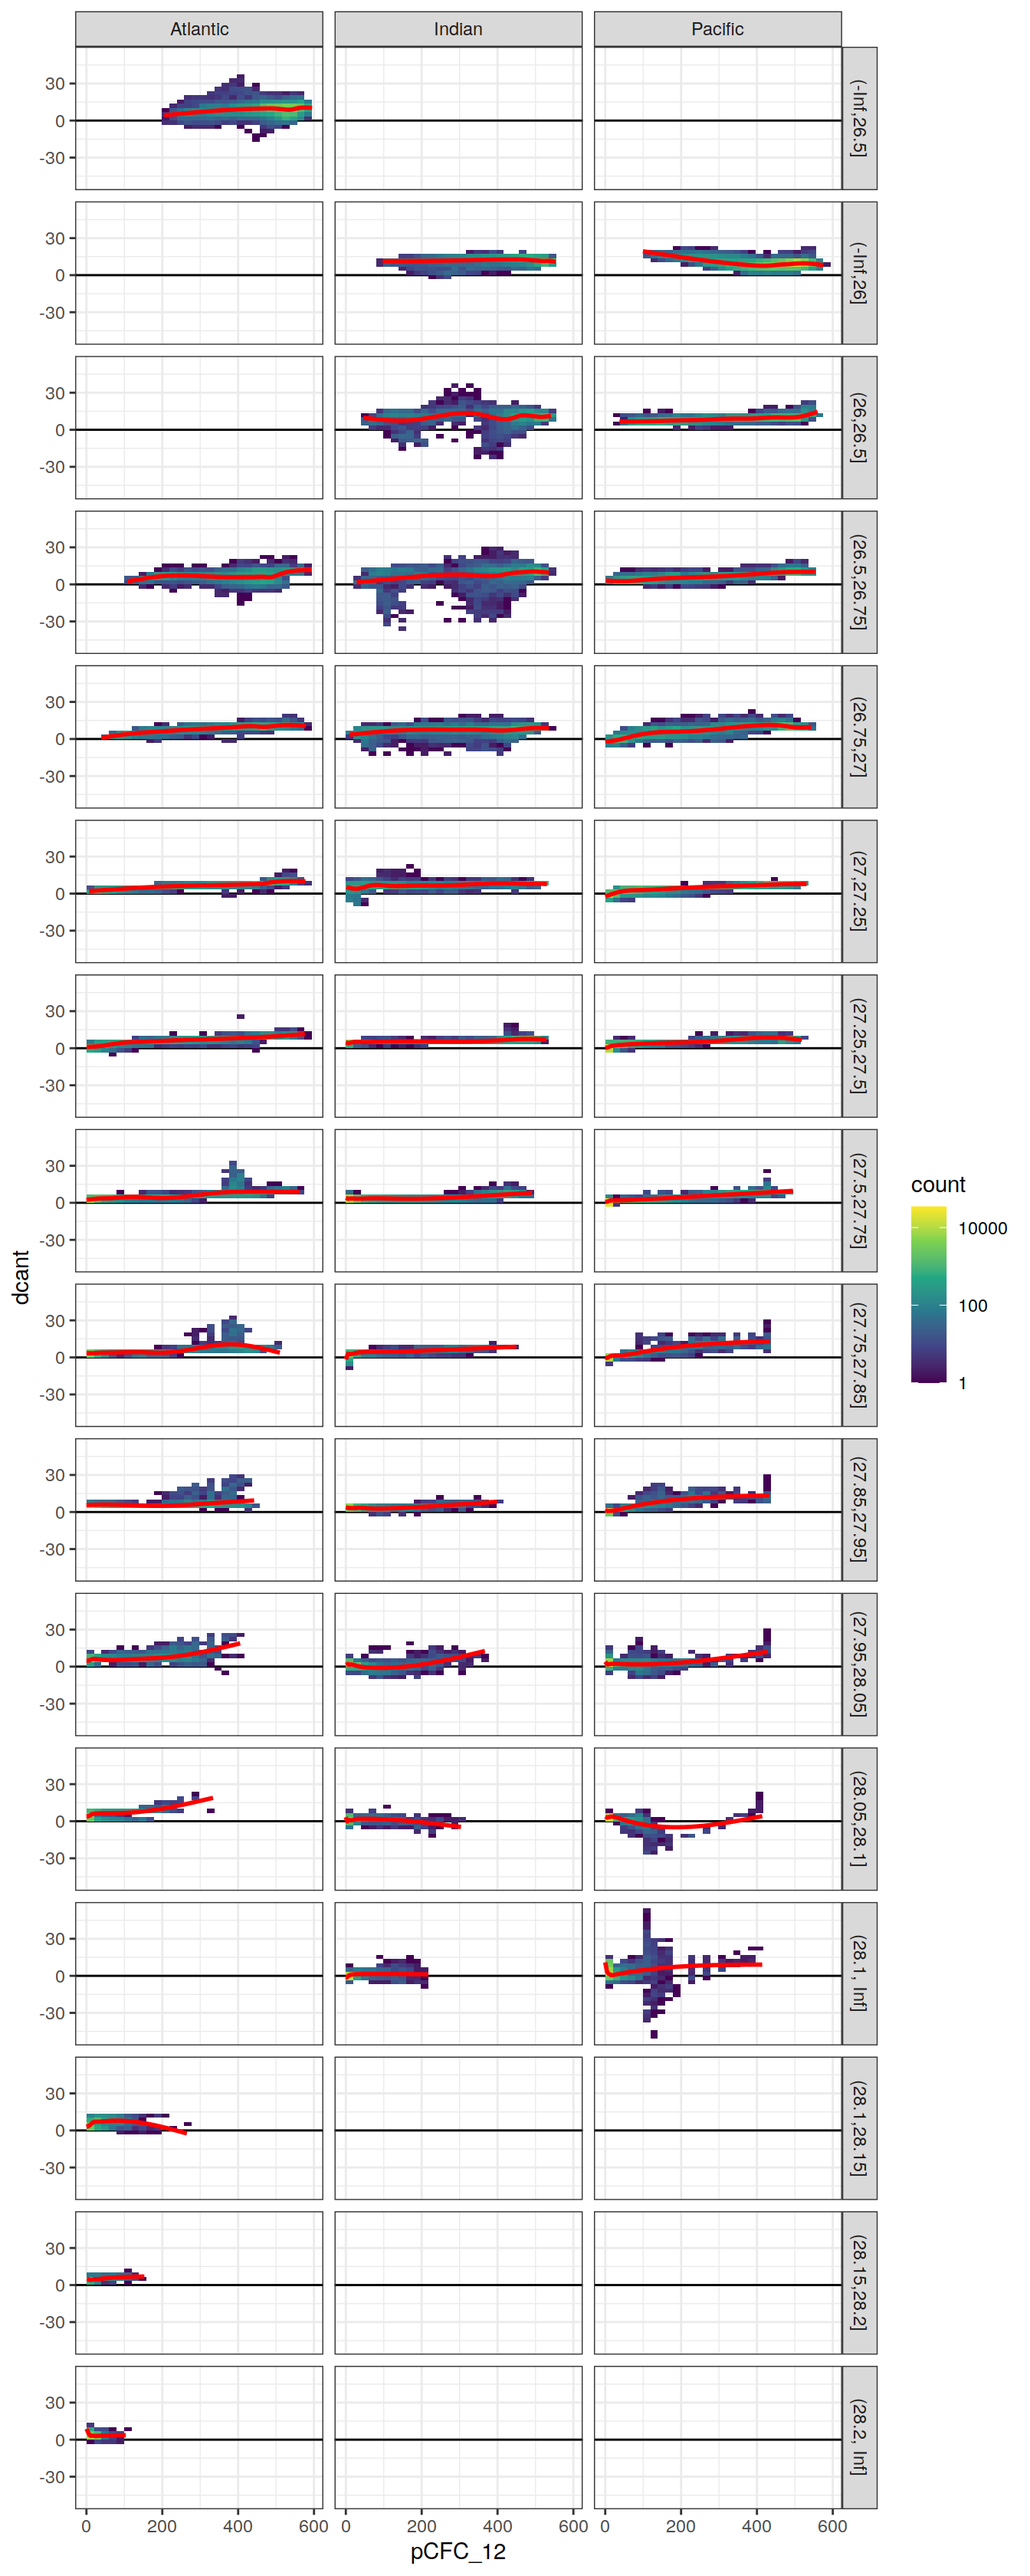
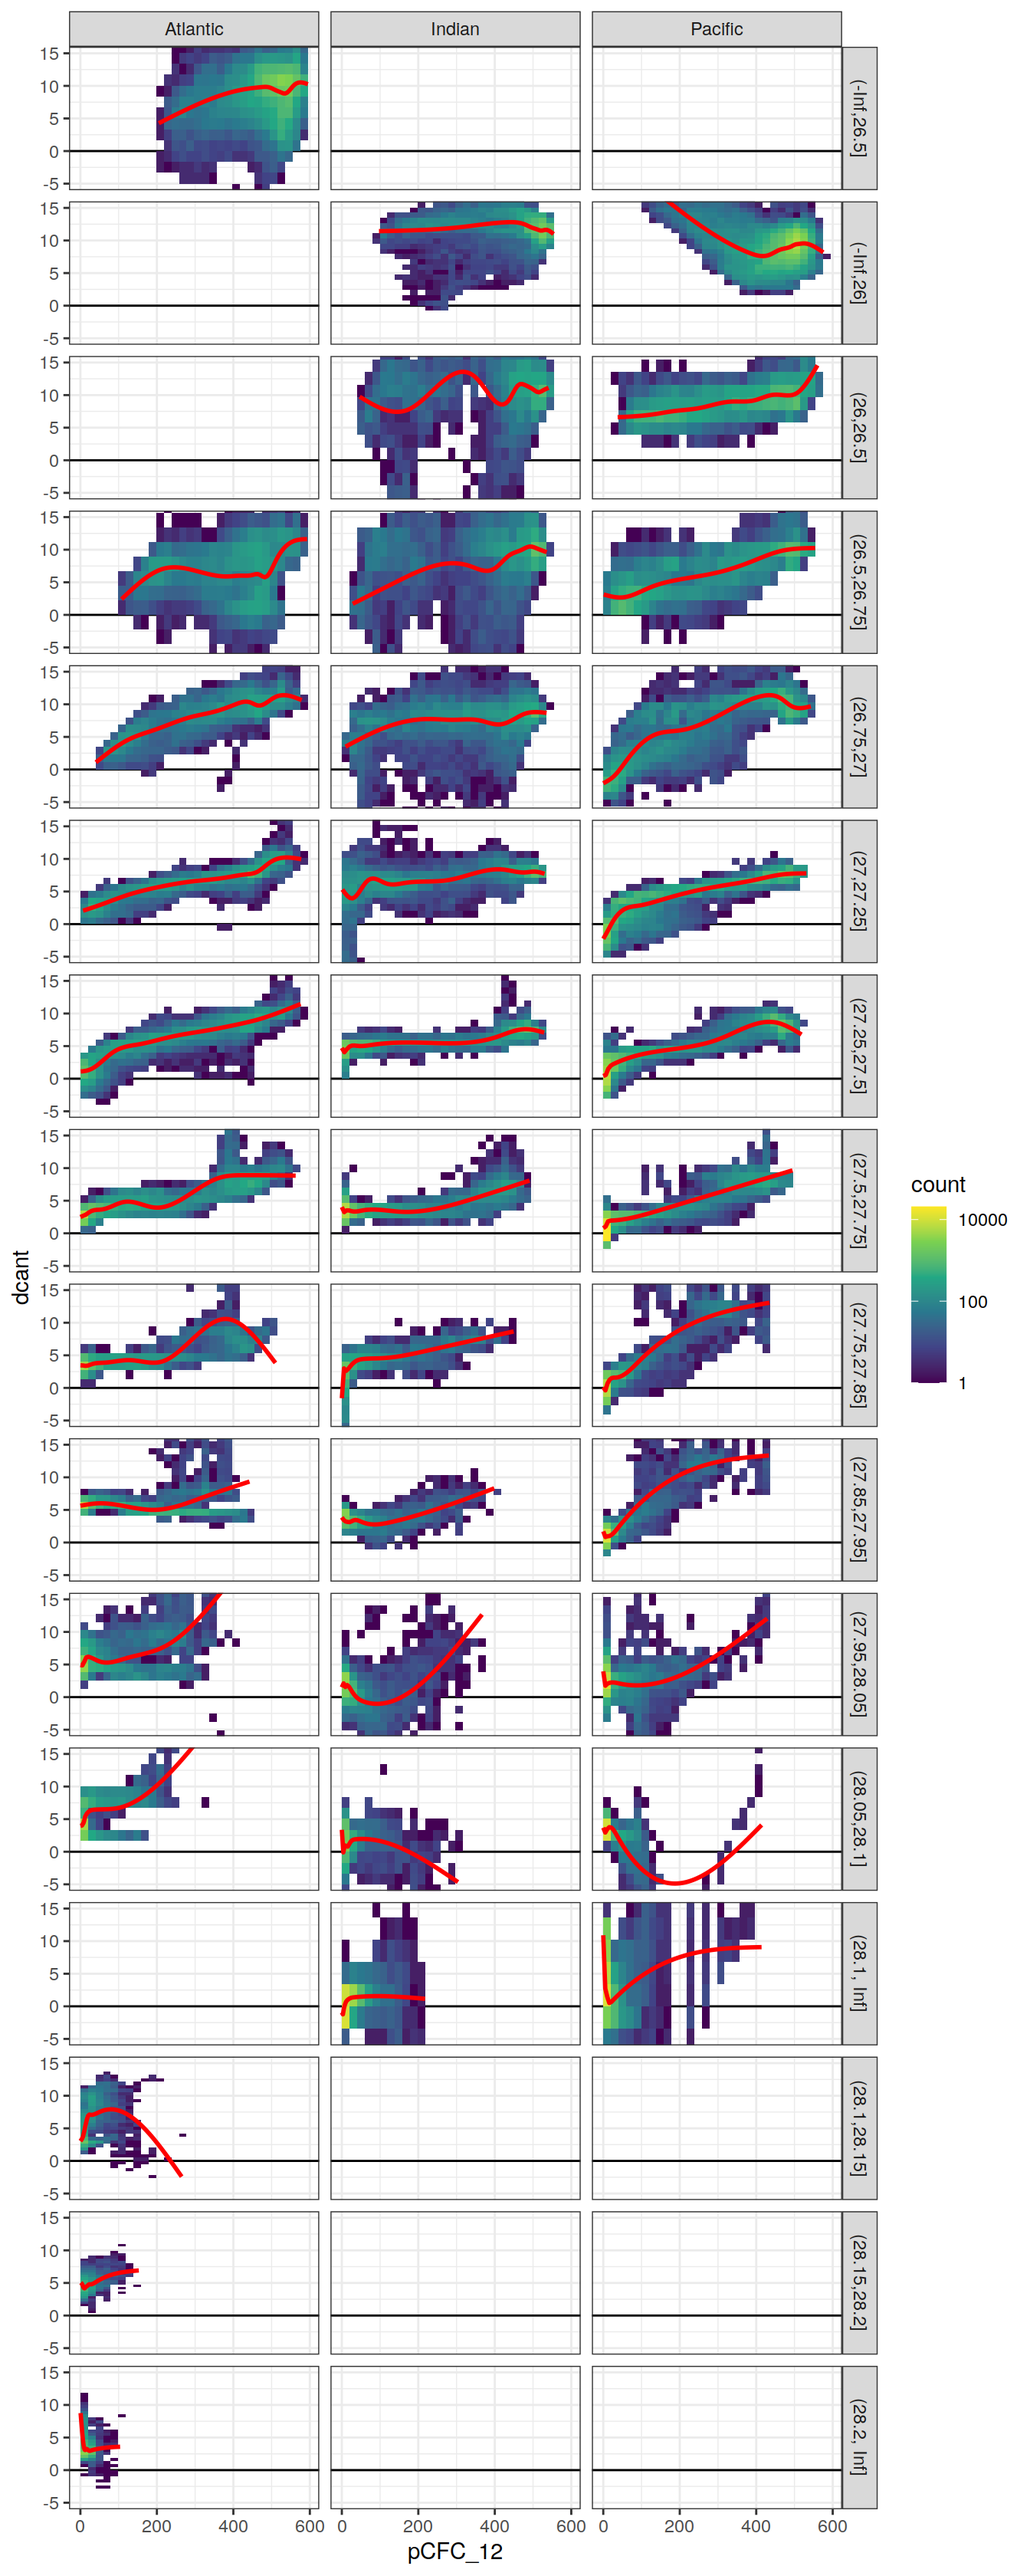
Build site.

diff --git a/docs/tracers_GLODAPv2_2021.html b/docs/tracers_GLODAPv2_2021.html
@@ -575,16 +575,16 @@ This reproducible <a href="http://rmarkdown.rstudio.com">R Markdown</a> analysis
 <div class="panel panel-default">
 <div class="panel-heading">
 <p class="panel-title">
-<a data-toggle="collapse" data-parent="#workflowr-checks" href="#strongRepositoryversionstrongahrefhttpsgithubcomjensdanielmuelleremlrobsvXXXtreee12c27c4c17a2a2f562afcb737ffd8fe91a4da0atargetblanke12c27ca"> <span class="glyphicon glyphicon-ok text-success" aria-hidden="true"></span> <strong>Repository version:</strong> <a href="https://github.com/jens-daniel-mueller/emlr_obs_v_XXX/tree/e12c27c4c17a2a2f562afcb737ffd8fe91a4da0a" target="_blank">e12c27c</a> </a>
+<a data-toggle="collapse" data-parent="#workflowr-checks" href="#strongRepositoryversionstrongahrefhttpsgithubcomjensdanielmuelleremlrobsvXXXtree2b7d6d5645c47d961dc59075b1439646857968eatargetblank2b7d6d5a"> <span class="glyphicon glyphicon-ok text-success" aria-hidden="true"></span> <strong>Repository version:</strong> <a href="https://github.com/jens-daniel-mueller/emlr_obs_v_XXX/tree/2b7d6d5645c47d961dc59075b1439646857968ea" target="_blank">2b7d6d5</a> </a>
 </p>
 </div>
[2 lines of base64/hex data omitted]
 <div class="panel-body">
 <p>
 Great! You are using Git for version control. Tracking code development and connecting the code version to the results is critical for reproducibility.
 </p>
 <p>
-The results in this page were generated with repository version <a href="https://github.com/jens-daniel-mueller/emlr_obs_v_XXX/tree/e12c27c4c17a2a2f562afcb737ffd8fe91a4da0a" target="_blank">e12c27c</a>. See the <em>Past versions</em> tab to see a history of the changes made to the R Markdown and HTML files.
+The results in this page were generated with repository version <a href="https://github.com/jens-daniel-mueller/emlr_obs_v_XXX/tree/2b7d6d5645c47d961dc59075b1439646857968ea" target="_blank">2b7d6d5</a>. See the <em>Past versions</em> tab to see a history of the changes made to the R Markdown and HTML files.
 </p>
 <p>
 Note that you need to be careful to ensure that all relevant files for the analysis have been committed to Git prior to generating the results (you can use <code>wflow_publish</code> or <code>wflow_git_commit</code>). workflowr only checks the R Markdown file, but you know if there are other scripts or data files that it depends on. Below is the status of the Git repository when the results were generated:
@@ -631,6 +631,40 @@ Message
 </tr>
 </thead>
 <tbody>
+<tr>
+<td>
+Rmd
+</td>
+<td>
+<a href="https://github.com/jens-daniel-mueller/emlr_obs_v_XXX/blob/2b7d6d5645c47d961dc59075b1439646857968ea/analysis/tracers_GLODAPv2_2021.Rmd" target="_blank">2b7d6d5</a>
+</td>
+<td>
+jens-daniel-mueller
+</td>
+<td>
+2021-11-11
+</td>
+<td>
+update plot correlation of dCant to cfc12 data
+</td>
+</tr>
+<tr>
+<td>
+html
+</td>
+<td>
+<a href="https://rawcdn.githack.com/jens-daniel-mueller/emlr_obs_v_XXX/4e4c0b7bb83d947007ca29cf447b3a6c37b296ab/docs/tracers_GLODAPv2_2021.html" target="_blank">4e4c0b7</a>
+</td>
+<td>
+jens-daniel-mueller
+</td>
+<td>
+2021-11-11
+</td>
+<td>
+Build site.
+</td>
+</tr>
 <tr>
 <td>
 Rmd
@@ -2722,15 +2756,7 @@ jens-daniel-mueller
   filter(data_source == &quot;obs&quot;) %&gt;% 
   select(lon, lat, depth, basin_AIP, dcant, gamma_slab)
 
-unique(dcant_3d$depth)</code></pre>
-<pre><code> [1]    0   10   20   30   50   75  100  125  150  200  250  300  400  500  600
-[16]  700  800  900 1000 1100 1200 1300 1400 1500 1750 2000 2500 3000 3500 4000
-[31] 4500 5000 5500</code></pre>
-<pre class="r"><code>unique(pCFC_12_3d$depth)</code></pre>
-<pre><code> [1]    0   10   20   30   50   75  100  125  150  200  250  300  400  500  600
-[16]  700  800  900 1000 1100 1200 1300 1400 1500 1750 2000 2500 3000 3500 4000
-[31] 4500 5000 5500</code></pre>
-<pre class="r"><code>CFC_dcant &lt;- inner_join(
+CFC_dcant &lt;- inner_join(
   dcant_3d,
   pCFC_12_3d
 )
@@ -2743,16 +2769,111 @@ CFC_dcant &lt;- CFC_dcant %&gt;%
   geom_bin2d() +
   geom_smooth(col = &quot;red&quot;, se = FALSE) +
   scale_fill_viridis_c(trans = &quot;log10&quot;) +
-  facet_grid(gamma_slab ~ basin_AIP)</code></pre>
+  facet_grid(gamma_slab ~ basin_AIP,
+             scales = &quot;free_y&quot;) +
+  coord_cartesian(ylim = c(-5,15))</code></pre>
 <p><img src="figure/tracers_GLODAPv2_2021.Rmd/dcant_CFC12_correlation_gamma-1.png" width="672" style="display: block; margin: auto;" /></p>
+<p>
+<button type="button" class="btn btn-default btn-xs btn-workflowr btn-workflowr-fig" data-toggle="collapse" data-target="#fig-dcant_CFC12_correlation_gamma-1">
+Past versions of dcant_CFC12_correlation_gamma-1.png
+</button>
+</p>
+<div id="fig-dcant_CFC12_correlation_gamma-1" class="collapse">
+<div class="table-responsive">
+<table class="table table-condensed table-hover">
+<thead>
+<tr>
+<th>
+Version
+</th>
+<th>
+Author
+</th>
+<th>
+Date
+</th>
+</tr>
+</thead>
+<tbody>
+<tr>
+<td>
+<a href="https://github.com/jens-daniel-mueller/emlr_obs_v_XXX/blob/4e4c0b7bb83d947007ca29cf447b3a6c37b296ab/docs/figure/tracers_GLODAPv2_2021.Rmd/dcant_CFC12_correlation_gamma-1.png" target="_blank">4e4c0b7</a>
+</td>
+<td>
+jens-daniel-mueller
+</td>
+<td>
+2021-11-11
+</td>
+</tr>
+</tbody>
+</table>
+</div>
+</div>
 <pre class="r"><code>CFC_dcant %&gt;%
+  filter(pCFC_12 &lt; 5) %&gt;% 
+  ggplot(aes(dcant, col = basin_AIP, fill = basin_AIP)) +
+  geom_vline(xintercept = 0) +
+  geom_density(alpha = 0.3) +
+  facet_grid(gamma_slab ~ .) +
+  labs(title = &quot;pCFC-12 &lt; 5&quot;)</code></pre>
+<p><img src="figure/tracers_GLODAPv2_2021.Rmd/dcant_CFC12_correlation_at_low_CFC-1.png" width="672" style="display: block; margin: auto;" /></p>
+<pre class="r"><code>CFC_dcant %&gt;%
+  filter(pCFC_12 &lt; 50) %&gt;% 
+  ggplot(aes(dcant, col = basin_AIP, fill = basin_AIP)) +
+  geom_vline(xintercept = 0) +
+  geom_density(alpha = 0.3) +
+  facet_grid(gamma_slab ~ .) +
+  labs(title = &quot;pCFC-12 &lt; 50&quot;)</code></pre>
+<p><img src="figure/tracers_GLODAPv2_2021.Rmd/dcant_CFC12_correlation_at_low_CFC-2.png" width="672" style="display: block; margin: auto;" /></p>
+<pre class="r"><code>CFC_dcant %&gt;%
+  filter(pCFC_12 &lt; 70) %&gt;% 
   ggplot(aes(pCFC_12, dcant)) +
   geom_hline(yintercept = 0) +
   geom_bin2d() +
   geom_smooth(col = &quot;red&quot;, se = FALSE) +
   scale_fill_viridis_c(trans = &quot;log10&quot;) +
-  facet_grid(depth_grid ~ basin_AIP)</code></pre>
+  facet_grid(depth_grid ~ basin_AIP,
+             scales = &quot;free_y&quot;) +
+  coord_cartesian()</code></pre>
 <p><img src="figure/tracers_GLODAPv2_2021.Rmd/dcant_CFC12_correlation_depth-1.png" width="672" style="display: block; margin: auto;" /></p>
+<p>
+<button type="button" class="btn btn-default btn-xs btn-workflowr btn-workflowr-fig" data-toggle="collapse" data-target="#fig-dcant_CFC12_correlation_depth-1">
+Past versions of dcant_CFC12_correlation_depth-1.png
+</button>
+</p>
+<div id="fig-dcant_CFC12_correlation_depth-1" class="collapse">
+<div class="table-responsive">
+<table class="table table-condensed table-hover">
+<thead>
+<tr>
+<th>
+Version
+</th>
+<th>
+Author
+</th>
+<th>
+Date
+</th>
+</tr>
+</thead>
+<tbody>
+<tr>
+<td>
+<a href="https://github.com/jens-daniel-mueller/emlr_obs_v_XXX/blob/4e4c0b7bb83d947007ca29cf447b3a6c37b296ab/docs/figure/tracers_GLODAPv2_2021.Rmd/dcant_CFC12_correlation_depth-1.png" target="_blank">4e4c0b7</a>
+</td>
+<td>
+jens-daniel-mueller
+</td>
+<td>
+2021-11-11
+</td>
+</tr>
+</tbody>
+</table>
+</div>
+</div>
 <pre class="r"><code>CFC_dcant %&gt;%
   group_split(gamma_slab, depth_grid) %&gt;%
   # head(4) %&gt;% 
@@ -2767,164 +2888,6 @@ CFC_dcant &lt;- CFC_dcant %&gt;%
                          &quot;| depth_grid&quot;, unique(.x$depth_grid))) +
       facet_grid(. ~ basin_AIP)
   )</code></pre>
-<pre><code>[[1]]</code></pre>
-<p><img src="figure/tracers_GLODAPv2_2021.Rmd/dcant_CFC12_correlation_depth_gamma-1.png" width="672" style="display: block; margin: auto;" /></p>
-<pre><code>
-[[2]]</code></pre>
-<p><img src="figure/tracers_GLODAPv2_2021.Rmd/dcant_CFC12_correlation_depth_gamma-2.png" width="672" style="display: block; margin: auto;" /></p>
-<pre><code>
-[[3]]</code></pre>
-<p><img src="figure/tracers_GLODAPv2_2021.Rmd/dcant_CFC12_correlation_depth_gamma-3.png" width="672" style="display: block; margin: auto;" /></p>
-<pre><code>
-[[4]]</code></pre>
-<p><img src="figure/tracers_GLODAPv2_2021.Rmd/dcant_CFC12_correlation_depth_gamma-4.png" width="672" style="display: block; margin: auto;" /></p>
-<pre><code>
-[[5]]</code></pre>
-<p><img src="figure/tracers_GLODAPv2_2021.Rmd/dcant_CFC12_correlation_depth_gamma-5.png" width="672" style="display: block; margin: auto;" /></p>
-<pre><code>
-[[6]]</code></pre>
-<p><img src="figure/tracers_GLODAPv2_2021.Rmd/dcant_CFC12_correlation_depth_gamma-6.png" width="672" style="display: block; margin: auto;" /></p>
-<pre><code>
-[[7]]</code></pre>
-<p><img src="figure/tracers_GLODAPv2_2021.Rmd/dcant_CFC12_correlation_depth_gamma-7.png" width="672" style="display: block; margin: auto;" /></p>
-<pre><code>
-[[8]]</code></pre>
-<p><img src="figure/tracers_GLODAPv2_2021.Rmd/dcant_CFC12_correlation_depth_gamma-8.png" width="672" style="display: block; margin: auto;" /></p>
-<pre><code>
-[[9]]</code></pre>
-<p><img src="figure/tracers_GLODAPv2_2021.Rmd/dcant_CFC12_correlation_depth_gamma-9.png" width="672" style="display: block; margin: auto;" /></p>
-<pre><code>
-[[10]]</code></pre>
-<p><img src="figure/tracers_GLODAPv2_2021.Rmd/dcant_CFC12_correlation_depth_gamma-10.png" width="672" style="display: block; margin: auto;" /></p>
-<pre><code>
-[[11]]</code></pre>
-<p><img src="figure/tracers_GLODAPv2_2021.Rmd/dcant_CFC12_correlation_depth_gamma-11.png" width="672" style="display: block; margin: auto;" /></p>
-<pre><code>
-[[12]]</code></pre>
-<p><img src="figure/tracers_GLODAPv2_2021.Rmd/dcant_CFC12_correlation_depth_gamma-12.png" width="672" style="display: block; margin: auto;" /></p>
-<pre><code>
-[[13]]</code></pre>
-<p><img src="figure/tracers_GLODAPv2_2021.Rmd/dcant_CFC12_correlation_depth_gamma-13.png" width="672" style="display: block; margin: auto;" /></p>
-<pre><code>
-[[14]]</code></pre>
-<p><img src="figure/tracers_GLODAPv2_2021.Rmd/dcant_CFC12_correlation_depth_gamma-14.png" width="672" style="display: block; margin: auto;" /></p>
-<pre><code>
-[[15]]</code></pre>
-<p><img src="figure/tracers_GLODAPv2_2021.Rmd/dcant_CFC12_correlation_depth_gamma-15.png" width="672" style="display: block; margin: auto;" /></p>
-<pre><code>
-[[16]]</code></pre>
-<p><img src="figure/tracers_GLODAPv2_2021.Rmd/dcant_CFC12_correlation_depth_gamma-16.png" width="672" style="display: block; margin: auto;" /></p>
-<pre><code>
-[[17]]</code></pre>
-<p><img src="figure/tracers_GLODAPv2_2021.Rmd/dcant_CFC12_correlation_depth_gamma-17.png" width="672" style="display: block; margin: auto;" /></p>
-<pre><code>
-[[18]]</code></pre>
-<p><img src="figure/tracers_GLODAPv2_2021.Rmd/dcant_CFC12_correlation_depth_gamma-18.png" width="672" style="display: block; margin: auto;" /></p>
-<pre><code>
-[[19]]</code></pre>
-<p><img src="figure/tracers_GLODAPv2_2021.Rmd/dcant_CFC12_correlation_depth_gamma-19.png" width="672" style="display: block; margin: auto;" /></p>
-<pre><code>
-[[20]]</code></pre>
-<p><img src="figure/tracers_GLODAPv2_2021.Rmd/dcant_CFC12_correlation_depth_gamma-20.png" width="672" style="display: block; margin: auto;" /></p>
-<pre><code>
-[[21]]</code></pre>
-<p><img src="figure/tracers_GLODAPv2_2021.Rmd/dcant_CFC12_correlation_depth_gamma-21.png" width="672" style="display: block; margin: auto;" /></p>
-<pre><code>
-[[22]]</code></pre>
-<p><img src="figure/tracers_GLODAPv2_2021.Rmd/dcant_CFC12_correlation_depth_gamma-22.png" width="672" style="display: block; margin: auto;" /></p>
-<pre><code>
-[[23]]</code></pre>
-<p><img src="figure/tracers_GLODAPv2_2021.Rmd/dcant_CFC12_correlation_depth_gamma-23.png" width="672" style="display: block; margin: auto;" /></p>
-<pre><code>
-[[24]]</code></pre>
-<p><img src="figure/tracers_GLODAPv2_2021.Rmd/dcant_CFC12_correlation_depth_gamma-24.png" width="672" style="display: block; margin: auto;" /></p>
-<pre><code>
-[[25]]</code></pre>
-<p><img src="figure/tracers_GLODAPv2_2021.Rmd/dcant_CFC12_correlation_depth_gamma-25.png" width="672" style="display: block; margin: auto;" /></p>
-<pre><code>
-[[26]]</code></pre>
-<p><img src="figure/tracers_GLODAPv2_2021.Rmd/dcant_CFC12_correlation_depth_gamma-26.png" width="672" style="display: block; margin: auto;" /></p>
-<pre><code>
-[[27]]</code></pre>
-<p><img src="figure/tracers_GLODAPv2_2021.Rmd/dcant_CFC12_correlation_depth_gamma-27.png" width="672" style="display: block; margin: auto;" /></p>
-<pre><code>
-[[28]]</code></pre>
-<p><img src="figure/tracers_GLODAPv2_2021.Rmd/dcant_CFC12_correlation_depth_gamma-28.png" width="672" style="display: block; margin: auto;" /></p>
-<pre><code>
-[[29]]</code></pre>
-<p><img src="figure/tracers_GLODAPv2_2021.Rmd/dcant_CFC12_correlation_depth_gamma-29.png" width="672" style="display: block; margin: auto;" /></p>
-<pre><code>
-[[30]]</code></pre>
-<p><img src="figure/tracers_GLODAPv2_2021.Rmd/dcant_CFC12_correlation_depth_gamma-30.png" width="672" style="display: block; margin: auto;" /></p>
-<pre><code>
-[[31]]</code></pre>
-<p><img src="figure/tracers_GLODAPv2_2021.Rmd/dcant_CFC12_correlation_depth_gamma-31.png" width="672" style="display: block; margin: auto;" /></p>
-<pre><code>
-[[32]]</code></pre>
-<p><img src="figure/tracers_GLODAPv2_2021.Rmd/dcant_CFC12_correlation_depth_gamma-32.png" width="672" style="display: block; margin: auto;" /></p>
-<pre><code>
-[[33]]</code></pre>
-<p><img src="figure/tracers_GLODAPv2_2021.Rmd/dcant_CFC12_correlation_depth_gamma-33.png" width="672" style="display: block; margin: auto;" /></p>
-<pre><code>
-[[34]]</code></pre>
-<p><img src="figure/tracers_GLODAPv2_2021.Rmd/dcant_CFC12_correlation_depth_gamma-34.png" width="672" style="display: block; margin: auto;" /></p>
-<pre><code>
-[[35]]</code></pre>
-<p><img src="figure/tracers_GLODAPv2_2021.Rmd/dcant_CFC12_correlation_depth_gamma-35.png" width="672" style="display: block; margin: auto;" /></p>
-<pre><code>
-[[36]]</code></pre>
-<p><img src="figure/tracers_GLODAPv2_2021.Rmd/dcant_CFC12_correlation_depth_gamma-36.png" width="672" style="display: block; margin: auto;" /></p>
-<pre><code>
-[[37]]</code></pre>
-<p><img src="figure/tracers_GLODAPv2_2021.Rmd/dcant_CFC12_correlation_depth_gamma-37.png" width="672" style="display: block; margin: auto;" /></p>
-<pre><code>
-[[38]]</code></pre>
-<p><img src="figure/tracers_GLODAPv2_2021.Rmd/dcant_CFC12_correlation_depth_gamma-38.png" width="672" style="display: block; margin: auto;" /></p>
-<pre><code>
-[[39]]</code></pre>
-<p><img src="figure/tracers_GLODAPv2_2021.Rmd/dcant_CFC12_correlation_depth_gamma-39.png" width="672" style="display: block; margin: auto;" /></p>
-<pre><code>
-[[40]]</code></pre>
-<p><img src="figure/tracers_GLODAPv2_2021.Rmd/dcant_CFC12_correlation_depth_gamma-40.png" width="672" style="display: block; margin: auto;" /></p>
-<pre><code>
-[[41]]</code></pre>
-<p><img src="figure/tracers_GLODAPv2_2021.Rmd/dcant_CFC12_correlation_depth_gamma-41.png" width="672" style="display: block; margin: auto;" /></p>
-<pre><code>
-[[42]]</code></pre>
-<p><img src="figure/tracers_GLODAPv2_2021.Rmd/dcant_CFC12_correlation_depth_gamma-42.png" width="672" style="display: block; margin: auto;" /></p>
-<pre><code>
-[[43]]</code></pre>
-<p><img src="figure/tracers_GLODAPv2_2021.Rmd/dcant_CFC12_correlation_depth_gamma-43.png" width="672" style="display: block; margin: auto;" /></p>
-<pre><code>
-[[44]]</code></pre>
-<p><img src="figure/tracers_GLODAPv2_2021.Rmd/dcant_CFC12_correlation_depth_gamma-44.png" width="672" style="display: block; margin: auto;" /></p>
-<pre><code>
-[[45]]</code></pre>
-<p><img src="figure/tracers_GLODAPv2_2021.Rmd/dcant_CFC12_correlation_depth_gamma-45.png" width="672" style="display: block; margin: auto;" /></p>
-<pre><code>
-[[46]]</code></pre>
-<p><img src="figure/tracers_GLODAPv2_2021.Rmd/dcant_CFC12_correlation_depth_gamma-46.png" width="672" style="display: block; margin: auto;" /></p>
-<pre><code>
-[[47]]</code></pre>
-<p><img src="figure/tracers_GLODAPv2_2021.Rmd/dcant_CFC12_correlation_depth_gamma-47.png" width="672" style="display: block; margin: auto;" /></p>
-<pre><code>
-[[48]]</code></pre>
-<p><img src="figure/tracers_GLODAPv2_2021.Rmd/dcant_CFC12_correlation_depth_gamma-48.png" width="672" style="display: block; margin: auto;" /></p>
-<pre><code>
-[[49]]</code></pre>
-<p><img src="figure/tracers_GLODAPv2_2021.Rmd/dcant_CFC12_correlation_depth_gamma-49.png" width="672" style="display: block; margin: auto;" /></p>
-<pre><code>
-[[50]]</code></pre>
-<p><img src="figure/tracers_GLODAPv2_2021.Rmd/dcant_CFC12_correlation_depth_gamma-50.png" width="672" style="display: block; margin: auto;" /></p>
-<pre><code>
-[[51]]</code></pre>
-<p><img src="figure/tracers_GLODAPv2_2021.Rmd/dcant_CFC12_correlation_depth_gamma-51.png" width="672" style="display: block; margin: auto;" /></p>
-<pre><code>
-[[52]]</code></pre>
-<p><img src="figure/tracers_GLODAPv2_2021.Rmd/dcant_CFC12_correlation_depth_gamma-52.png" width="672" style="display: block; margin: auto;" /></p>
-<pre><code>
-[[53]]</code></pre>
-<p><img src="figure/tracers_GLODAPv2_2021.Rmd/dcant_CFC12_correlation_depth_gamma-53.png" width="672" style="display: block; margin: auto;" /></p>
 </div>
 <div id="overview-plots" class="section level1" number="7">
 <h1 number="7"><span class="header-section-number">7</span> Overview plots</h1>
